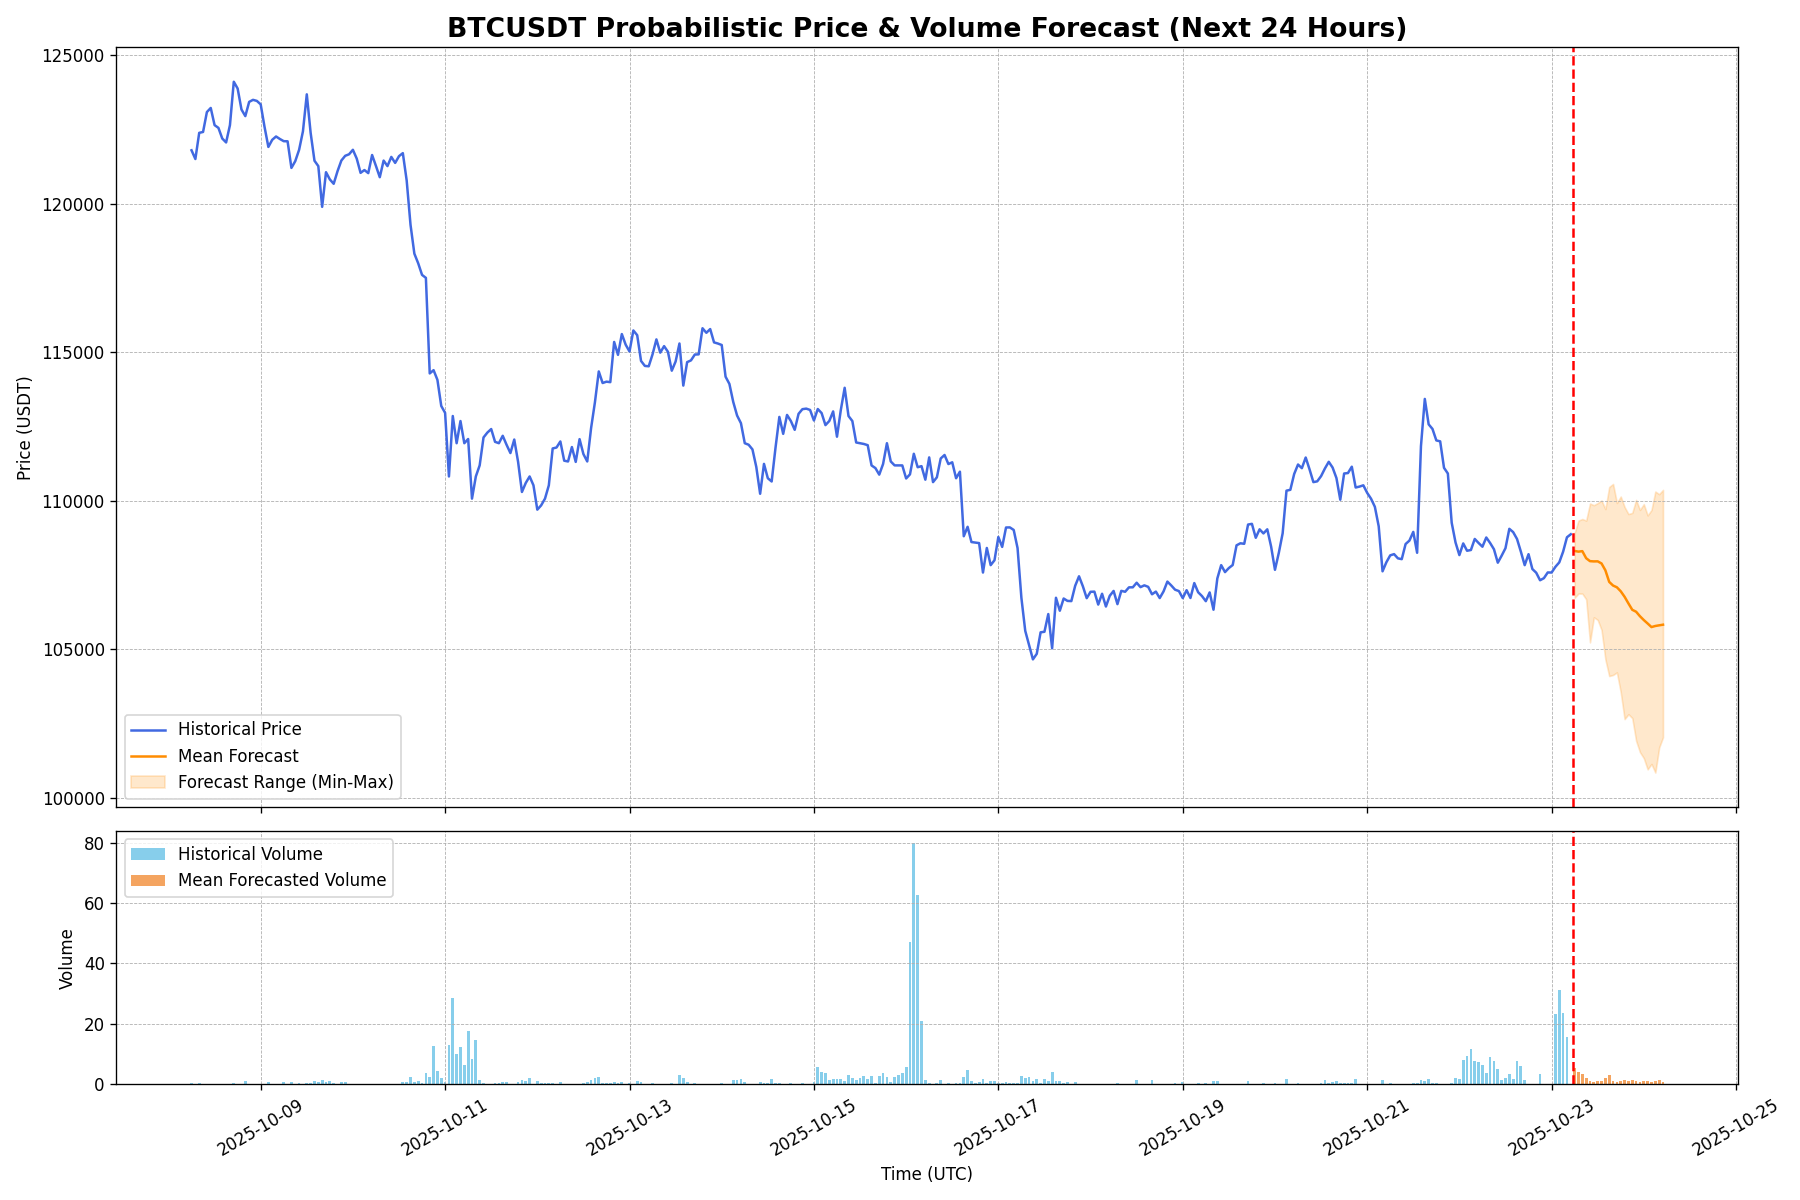
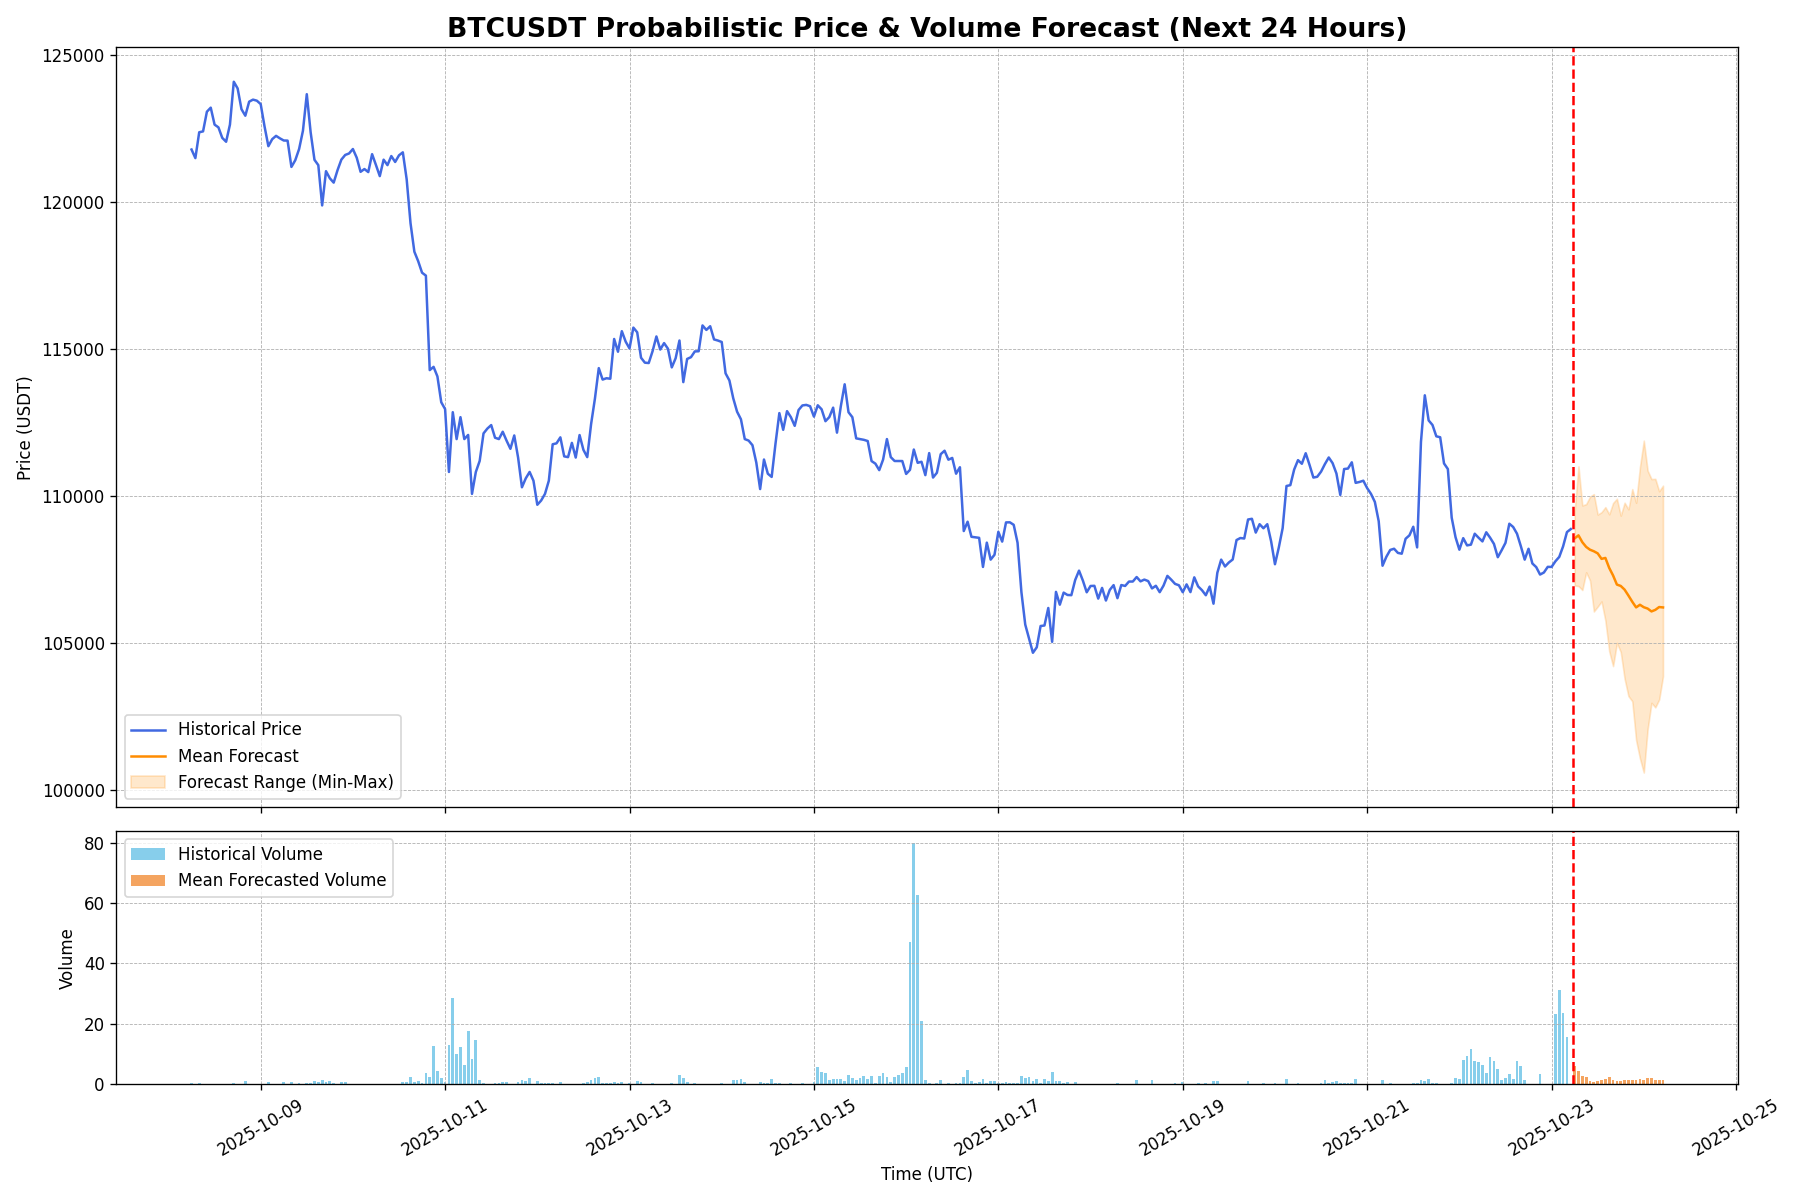
Auto-update forecast for 2025-10-23 06:10 UTC

diff --git a/index.html b/index.html
@@ -22,19 +22,19 @@
         <section id="live-dashboard">
             <h2>Live BTC/USDT Forecast Dashboard</h2>
             <div class="metadata">
-                <span>Last Updated (UTC): <strong id="update-time">2025-10-23 06:07:23</strong></span>
+                <span>Last Updated (UTC): <strong id="update-time">2025-10-23 06:10:14</strong></span>
                 <span>Data Source: Binance | Interval: 1-Hour</span>
             </div>
 
             <div class="metrics-container">
                 <div class="metric-card">
                     <h3>Upside Probability (Next 24h)</h3>
-                    <p class="metric-value" id="upside-prob">10.0%</p>
+                    <p class="metric-value" id="upside-prob">6.7%</p>
                     <div class="metric-desc">The model's confidence that the price in 24 hours will be higher than the last known price.</div>
                 </div>
                 <div class="metric-card">
                     <h3>Volatility Amplification (Next 24h)</h3>
-                    <p class="metric-value" id="vol-amp-prob">90.0%</p>
+                    <p class="metric-value" id="vol-amp-prob">86.7%</p>
                     <div class="metric-desc">The probability that predicted volatility over the next 24h will exceed recent historical volatility.</div>
                 </div>
             </div>
